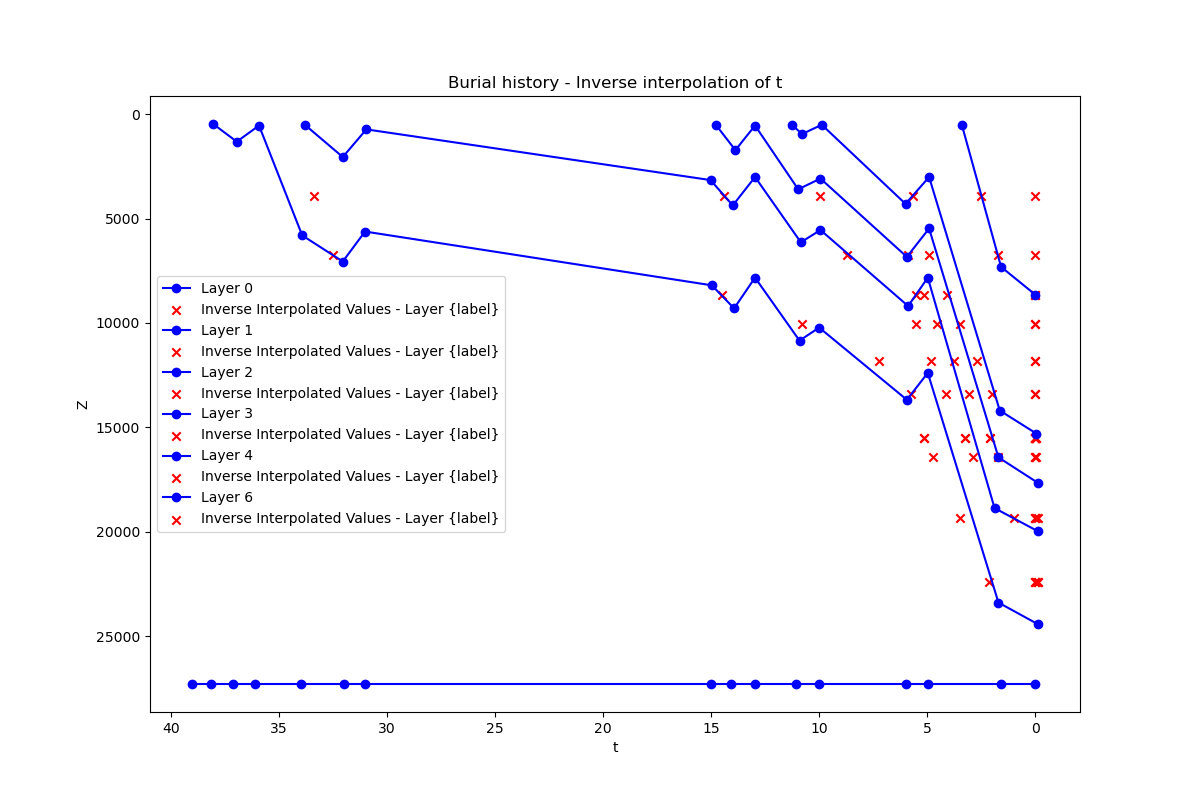
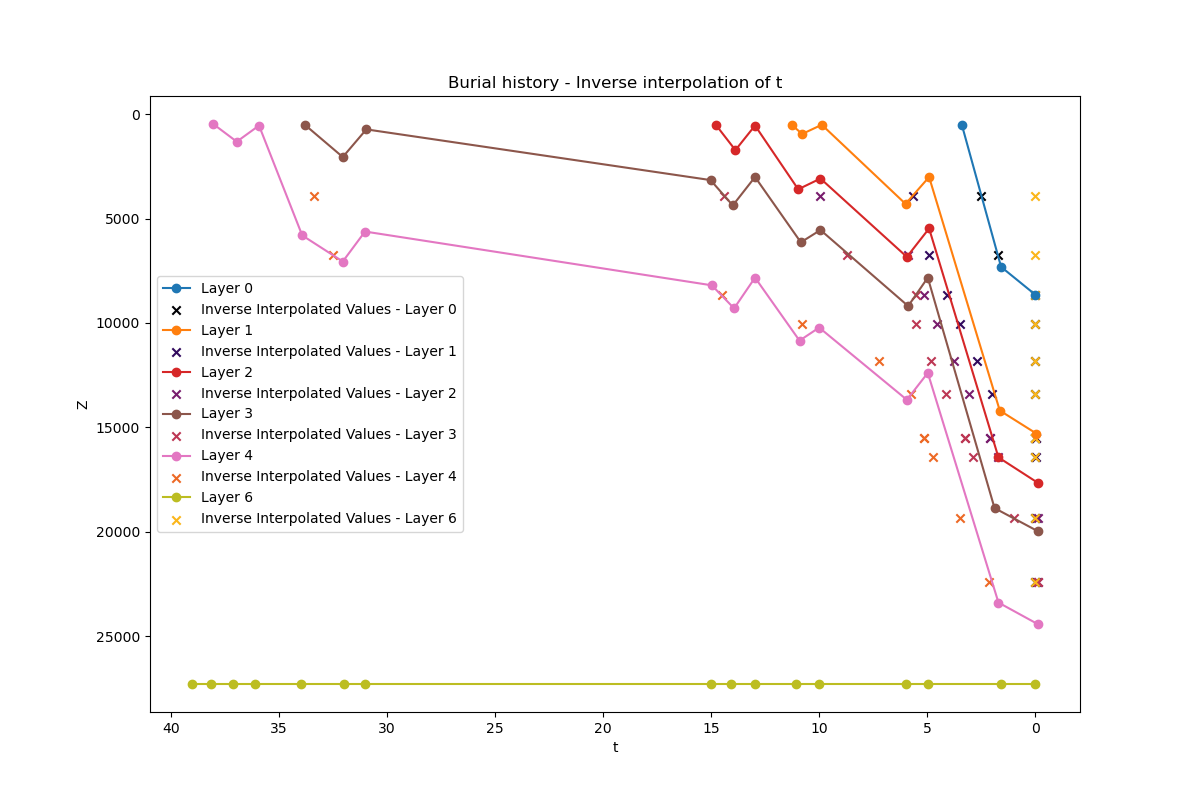
Happy with plots, ready to compute TTI

diff --git a/mains/data/python/script3.py b/mains/data/python/script3.py
@@ -7,7 +7,10 @@ if __name__ == "__main__":
         
 
         plt.figure(figsize=(12, 8))
-        for layer_number in layers_to_process:
+        #Define a colormap for layers
+        cmap = plt.cm.get_cmap('tab10', len(layers_to_process)+1) #One colormap for the line plot
+        cmap2 = plt.cm.get_cmap('inferno', len(layers_to_process)+1) #Another colormap for the scatter
+        for idx, layer_number in enumerate(layers_to_process):
             data_file_path = f"/home/juanse/Documents/GitHub/HC-TTIExp/mains/data/burial_history/burial_history_layer_{layer_number}.txt"
             output_file_path = f"/home/juanse/Documents/GitHub/HC-TTIExp/mains/data/burial_history/inversion/burial_history_layer_{layer_number}_with_inverse_time.txt"
             output_plot_path = f"/home/juanse/Documents/GitHub/HC-TTIExp/mains/data/burial_history/inversion/burial_history_layer_{layer_number}_with_inverse_time.png"
@@ -20,7 +23,7 @@ if __name__ == "__main__":
             plotter.save_results_inverse_t(output_file_path)
             # Plot, save and show the inverse t plot. 
             #COMMENT THE LAST TWO IF YOU WANT TO PLOT EVERYTHING IN A SINGLE FIGURE
-            plotter.plot_inverse_t(label=layer_number)
+            plotter.plot_inverse_t(label=layer_number, linecolor = cmap(idx), scattercolor=cmap2(idx))
             #plotter.save_plot_inverse_t(output_plot_path)
             #plotter.show_plot_inverse_t()
 

diff --git a/mains/data/python/inverse_time_interpolator.py b/mains/data/python/inverse_time_interpolator.py
@@ -55,13 +55,14 @@ class TimeInterpolatorPlotter:
 
         print(f"Results saved to {output_file_path}")
 
-    def plot_inverse_t(self, label=None):
-        plt.plot(self.t_values, self.z_values, marker='o', linestyle='-', color='b', label=f'Layer {label}')
-        
+    def plot_inverse_t(self, label=None, linecolor=None, scattercolor=None):
+        #Plot Z vs t values
+        plt.plot(self.t_values, self.z_values, marker='o', linestyle='-', color=linecolor, label=f'Layer {label}')
+        #Plot inverted Z vs t values as scatter
         if self.results_inverse_t:
             inverted_t_values = [result[1] for result in self.results_inverse_t]
             inverted_z_values = [result[0] for result in self.results_inverse_t]
-            plt.scatter(inverted_t_values, inverted_z_values, marker='x', color='r', label='Inverse Interpolated Values - Layer {label}')
+            plt.scatter(inverted_t_values, inverted_z_values, marker='x', color=scattercolor, label=f'Inverse Interpolated Values - Layer {label}')
 
         plt.xlabel('t')
         plt.ylabel('Z')
